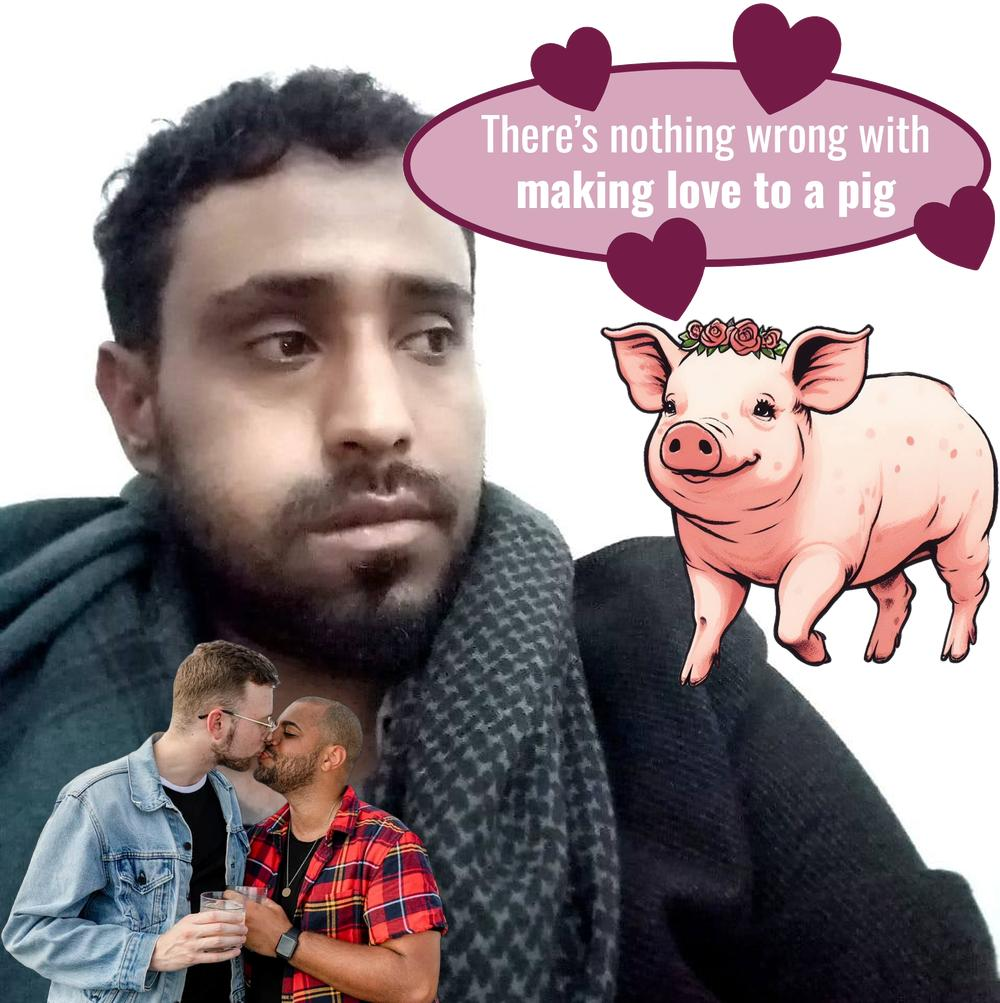
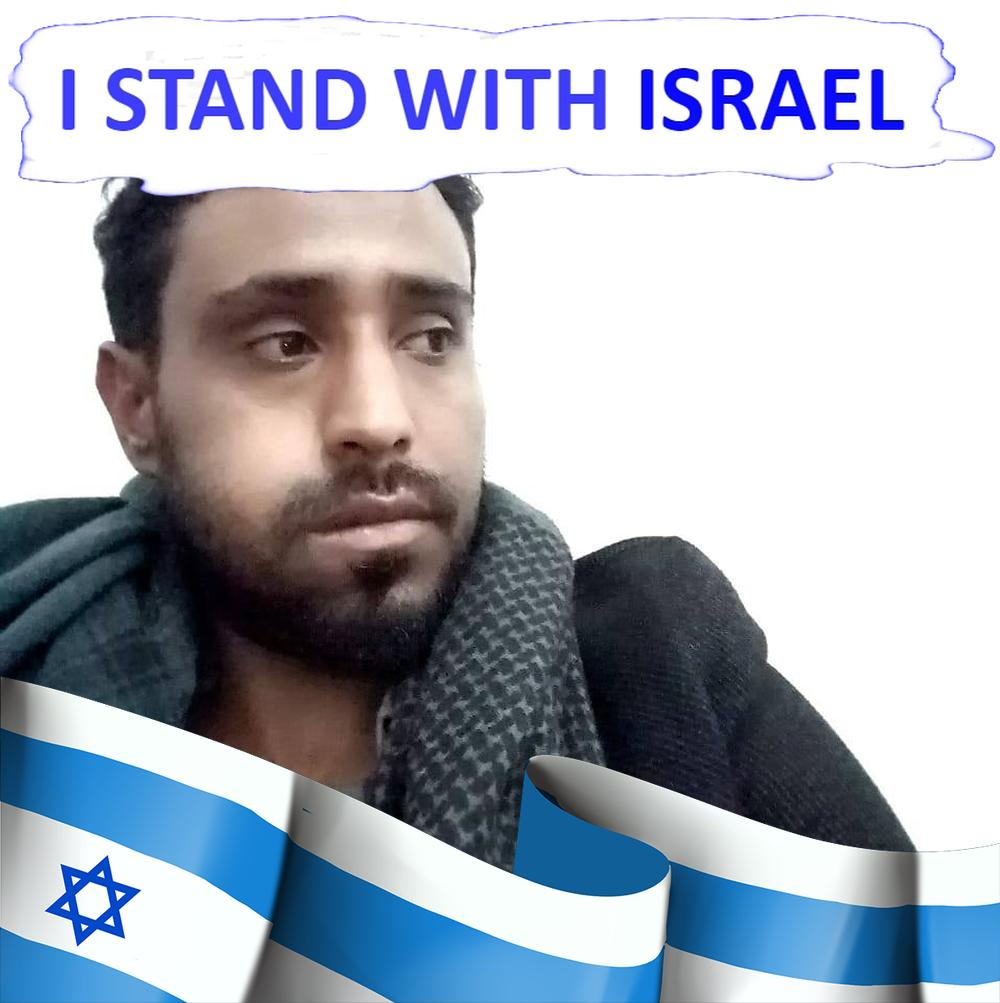
add art

diff --git a/scripts/main.py b/scripts/main.py
@@ -96,11 +96,12 @@ for original_name in image_files:
     original_img = Image.open('../given_images/' + original_name)
 
     art_pieces = [
-        # {'name': 'i_stand_with_israel.png', 'x': 'right', 'y': 'top', 'ratio': 1},
+        {'name': 'i_stand_with_israel.png', 'x': 'right', 'y': 'top', 'ratio': 1},
         # {'name': 'corner_flag.png', 'x': 'right', 'y': 'bottom', 'ratio': 0.45},
-        {'name': 'gays2.png', 'x': 'left', 'y': 'bottom', 'ratio': 0.45},
-        {'name': 'pig1.png', 'x': 'right', 'y': 'middle', 'ratio': 0.4},
-        {'name': 'loving_pigs.png', 'x': 'right', 'y': 'top', 'ratio': 0.6},
+        {'name': 'bottom_ribbon.png', 'x': 'center', 'y': 'bottom', 'ratio': 1},
+        # {'name': 'gays2.png', 'x': 'left', 'y': 'bottom', 'ratio': 0.45},
+        # {'name': 'pig1.png', 'x': 'right', 'y': 'middle', 'ratio': 0.4},
+        # {'name': 'loving_pigs.png', 'x': 'right', 'y': 'top', 'ratio': 0.6},
     ]
 
     for art in art_pieces:
